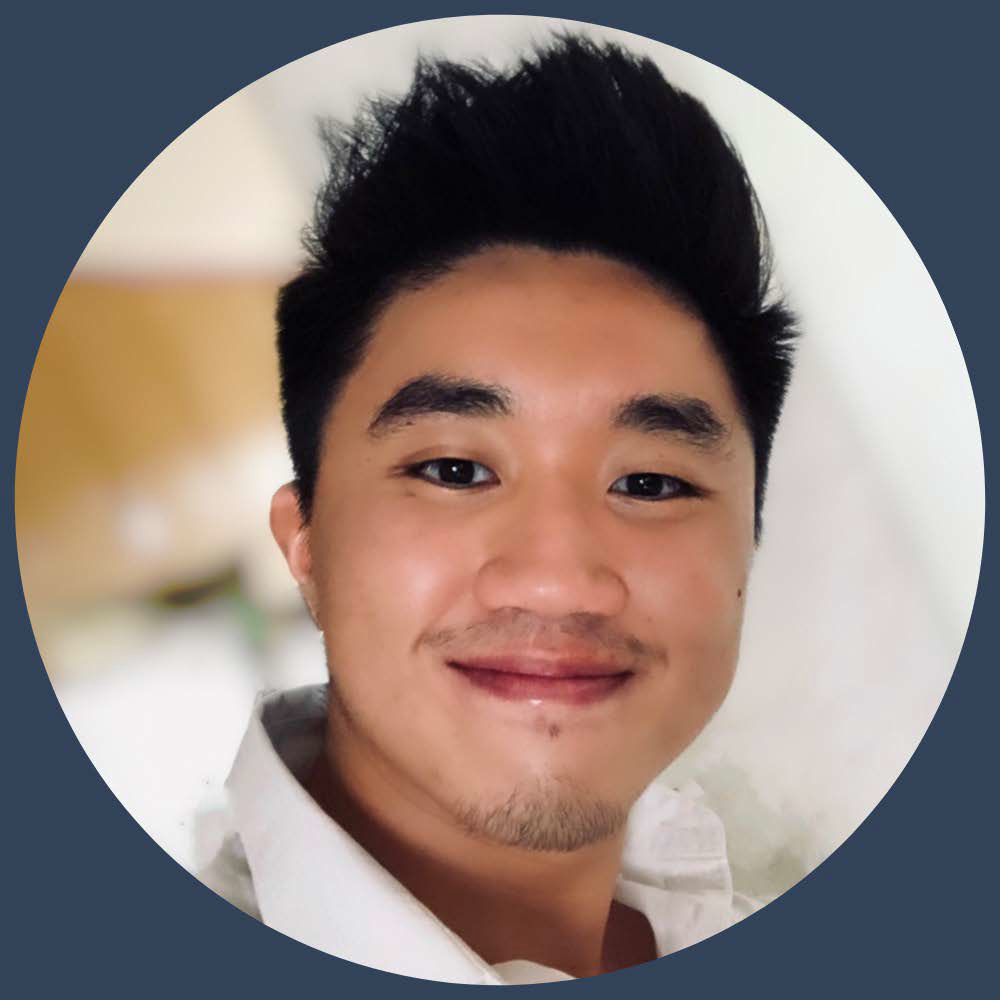
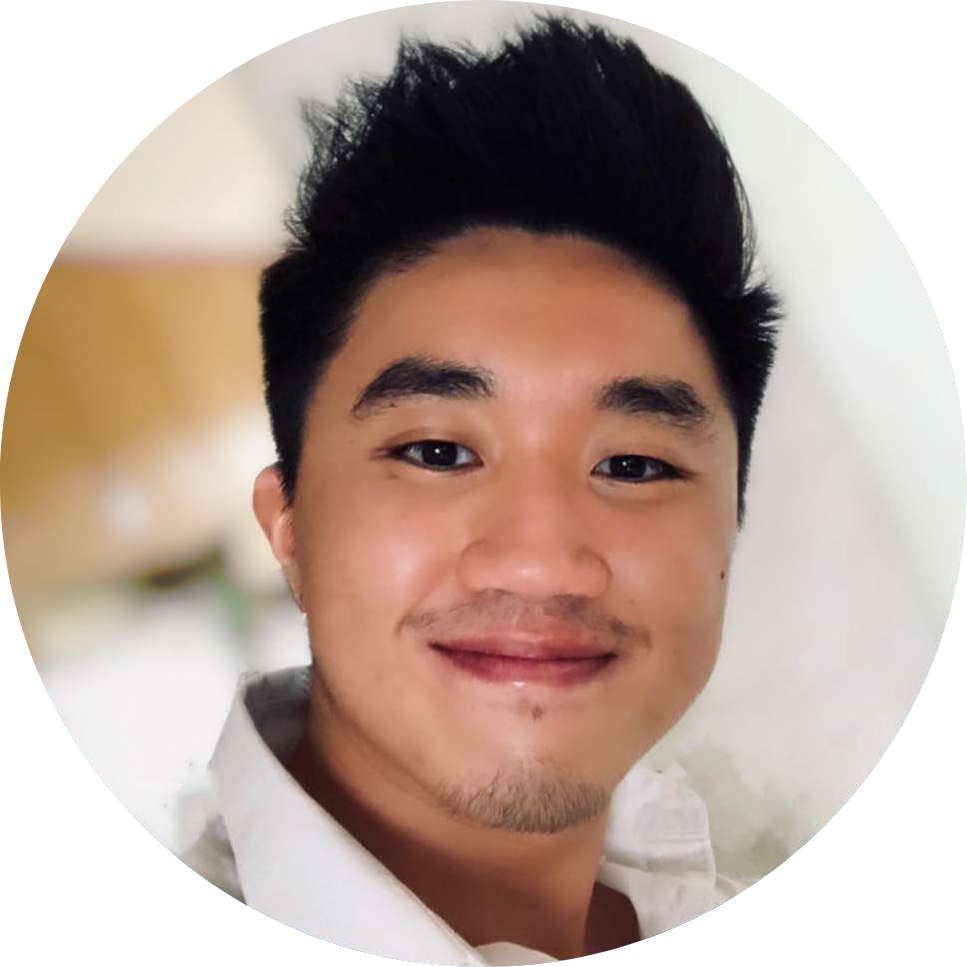
updated profile pricture, project section change to studies

diff --git a/src/data.js b/src/data.js
@@ -1,19 +1,19 @@
 export const projects = [
   {
-    title: "Derivative Pricer",
-    subtitle: "C++ and Qt6 Framework",
+    title: "European Union - Sustainable Finance Disclosure Regulation",
+    subtitle: "Pitch Deck",
     description:
-      "Interface using C++ Qt6 framework to compute various derivative's arbitrage-free price using Monte Carlos simulation for Vanilla and Exotic Option and risk-neutral Binary Tree Pricing for American Option. The project focuses on good programming practises such as packaging reusable components like generation of random numbers and parameters integral. Abstract classes have been created to allow easy extension to other options if its payoff may be define. Vanilla Options, Simple Exotic Option and American Options can be valued.",
-    image: "./optionPricer.gif",
-    link: "https://github.com/alanriya/OptionPricer", 
+      "How SFDR is a key pillar of EU sustainable finance action plan and how asset manager will be affected. It also shows the SFDR implmentation timeline for asset manager.",
+    image: "./project1.gif",
+    link: "https://github.com/Aaron-Tan-yh", 
   },
   {
-    title: "Market Data DartBoard",
-    subtitle: "Python 3.9 and RabbitMQ",
+    title: "Why invest in ESG?",
+    subtitle: "Pitch Deck",
     description:
-      "This project simulates the how market data flows from exchange to the client. A server will read a dummmy file that contains market data in their native protocol and sends it through a TCP connection through RabbitMQ 's topic exchange. Another client application will receive the data and trys to build the book, the book state is then published over the another TCP connection to any client subscribing to the market data to display a dart board. This project still lacks a frontend UI that is fast enough to handle large volume of data and rendering them at the same time.",
-    image: "./marketParser.gif",
-    link: "https://github.com/alanriya/dataTransfer",
+      "Investing in ESG for improved risk-adjusted return, repurposing the economy and how changing regultions puts pressure on developing ESG policies.",
+    image: "./project2.gif",
+    link: "https://github.com/Aaron-Tan-yh",
   }
 ];
 
@@ -49,7 +49,7 @@ export const backgrounds = [
     cardTitle: `ING Bank N.V., Analyst, Sustainable Finance APAC`,
     cardSubtitle:
       "Internally rotated to ING's sustainable finance department",
-    title: "May May 2021 - Present",
+    title: "May 2021 - Present",
     cardDetailedText: ["- Experienced in originating, structuring, and executing Sustainable Finance deals, including GSS and Sustainability-Linked bonds/loans.", "- Excels in analysing companies’ ESG strategies, identifying gaps, and proposing advisory solutions to align with investors’ expecta1tions.", "- Well-versed with various global and regional sustainability standards, benchmarks, and Second Party Opinion providers.", "- Conducted in-depth sector knowledge from the sustainability perspective on the Energy, Transportation, Metals & Mining, Agriculture, Circular Economy, Telecommunications and Infrastructure sectors."]
   }
 ];

diff --git a/src/components/Projects.js b/src/components/Projects.js
@@ -1,4 +1,4 @@
-import { CodeIcon } from "@heroicons/react/solid";
+import { DocumentReportIcon } from "@heroicons/react/solid";
 import React from "react";
 import { projects } from "../data";
 
@@ -7,20 +7,12 @@ export default function Projects() {
     <section id="projects" className="text-gray-400 bg-gray-900 body-font">
       <div className="container px-5 py-10 mx-auto text-center lg:px-40">
         <div className="flex flex-col w-full mb-20">
-          <CodeIcon className="mx-auto inline-block w-10 mb-4" />
+          <DocumentReportIcon className="mx-auto inline-block w-10 mb-4" />
           <h1 className="sm:text-4xl text-3xl font-medium title-font mb-4 text-white">
-            Apps I've Built
+            Studies that I have done
           </h1>
           <p className="lg:w-2/3 mx-auto leading-relaxed text-base">
-            A series of projects that I have built using primarily C++ and Python. I am currently learning C# to upgrade myself.
-          </p>
-          <br/>
-          <p>
-            Other than the programming languages, I have some knowledge in workflow engine softwares like Apache Airflow to automate and monitor data pipelines. I am also experienced with using messaging broker platforms like RabbitMQ to set up, publish and consume messages from topic exchanges for different projects.
-          </p>
-          <br/>
-          <p>
-            If you are unable to see the projects, please get in touch with me through my <a href="mailto:alan.leeyungchong@gmail.com" className="text-white body-font">gmail</a>.
+            Here is a series of pitch deck that I have put together about ESG investments.
           </p>
         </div>
         <div className="flex flex-wrap -m-4">

diff --git a/src/components/About.js b/src/components/About.js
@@ -14,7 +14,7 @@ export default function About() {
             I am a sustainable finance professional and innovation enthusiast.
             <br className="hidden lg:inline-block" />
             <br className="hidden lg:inline-block" />
-            I am passionately curious, impact driven and an open-minded team player.
+            I am passionately curious, impact-driven and an open-minded team player.
           </h1>
           <p className="mb-8 leading-relaxed">
             
@@ -36,7 +36,7 @@ export default function About() {
           <img
             className="object-cover object-center rounded"
             alt="hero"
-            src="./aaron_profile.png"
+            src="./profile.png"
           />
         </div>
       </div>
